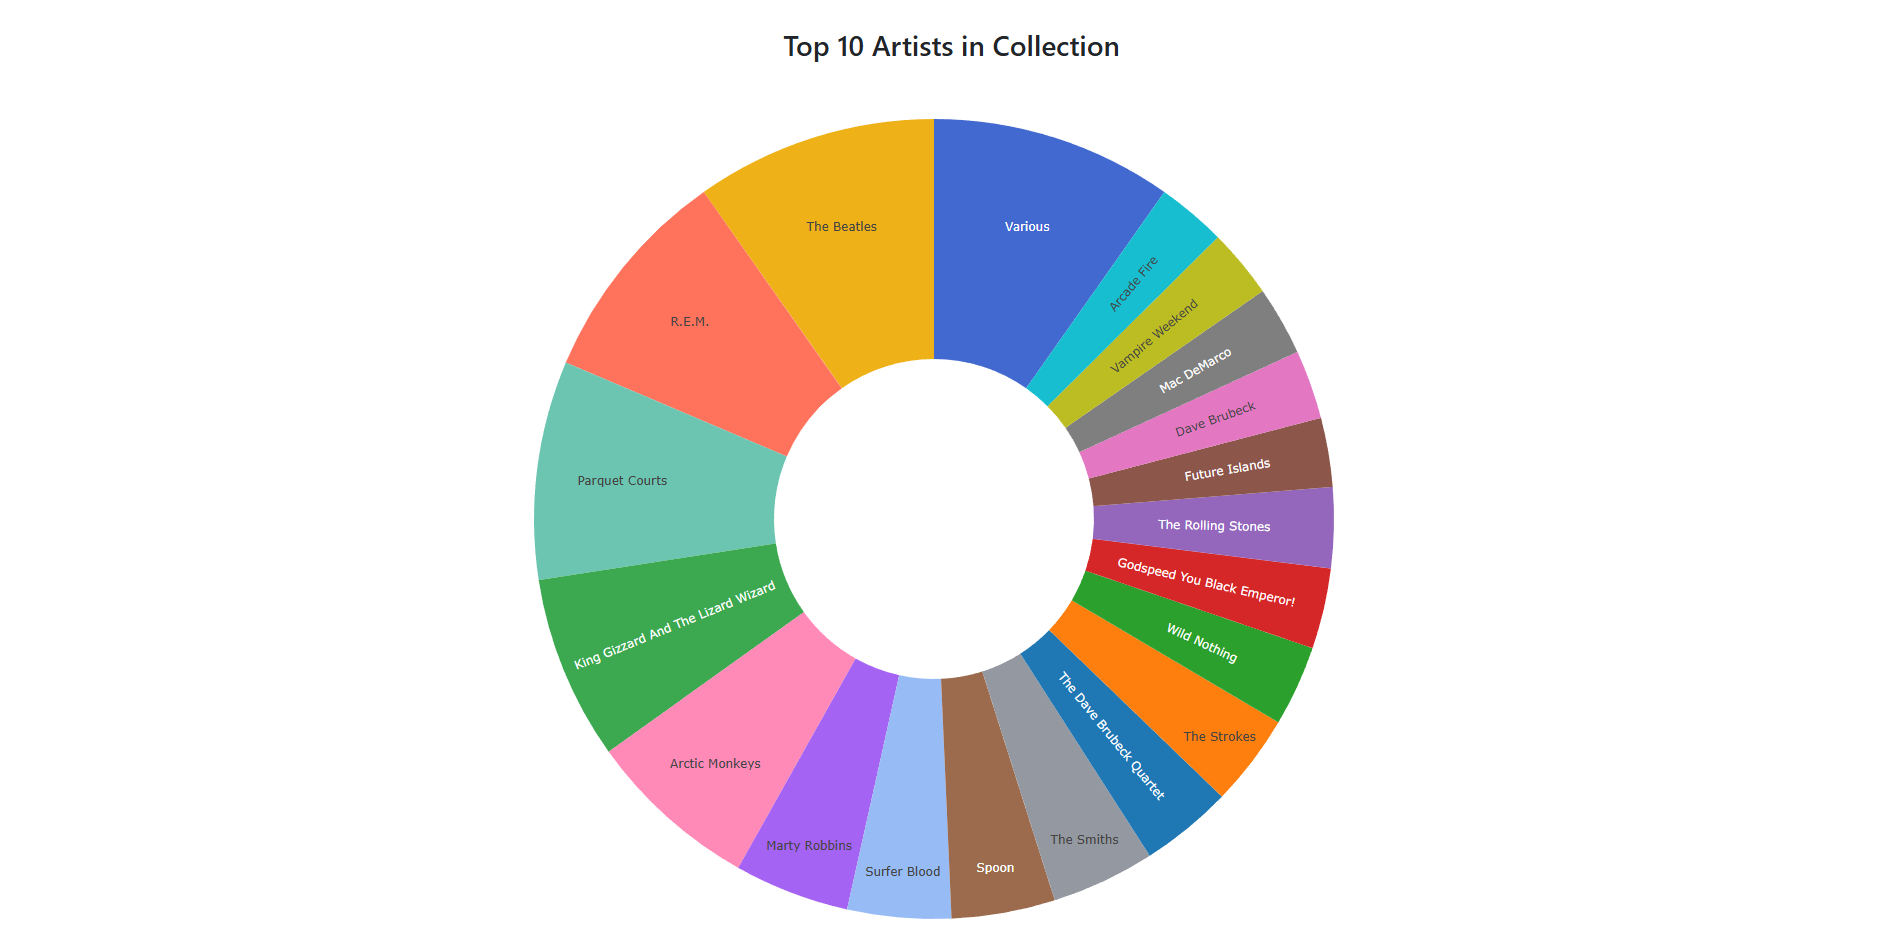
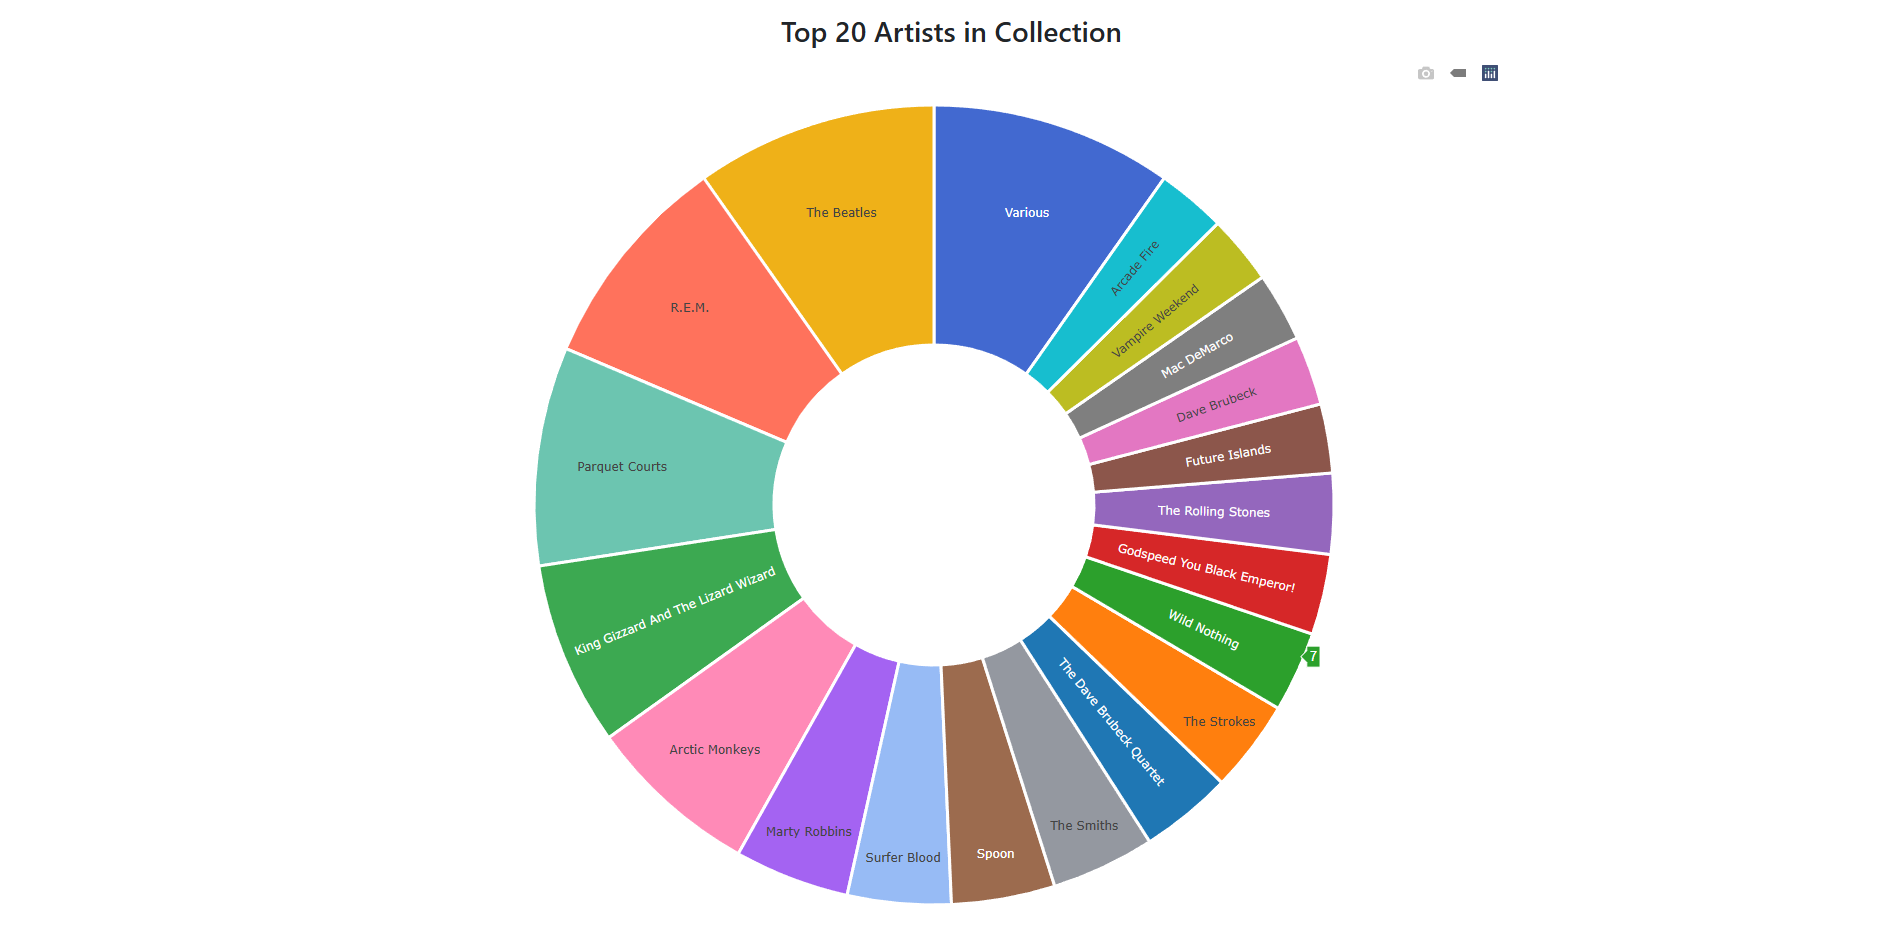
corrected chart title and added white borders

diff --git a/records.js b/records.js
@@ -78,7 +78,13 @@ function updateArtistDistribution(data) {
         values: counts,
         type: "pie",
         hole: 0.4,
-        marker: { colors: d3.schemeObservable10 },
+        marker: {
+            colors: d3.schemeObservable10,
+            line: {
+                color: 'white',
+                width: 3 
+            }
+        },
         textinfo: "label",
         hoverinfo: "value",
         textposition: "inside",

diff --git a/index.html b/index.html
@@ -60,7 +60,7 @@
     <!-- Pie Chart Section for Artist Distribution -->
     <div class="row mt-4">
       <div class="col-md-12">
-        <h3 class="text-center">Top 10 Artists in Collection</h3>
+        <h3 class="text-center">Top 20 Artists in Collection</h3>
         <div id="distribution"></div>
       </div>
     </div>
